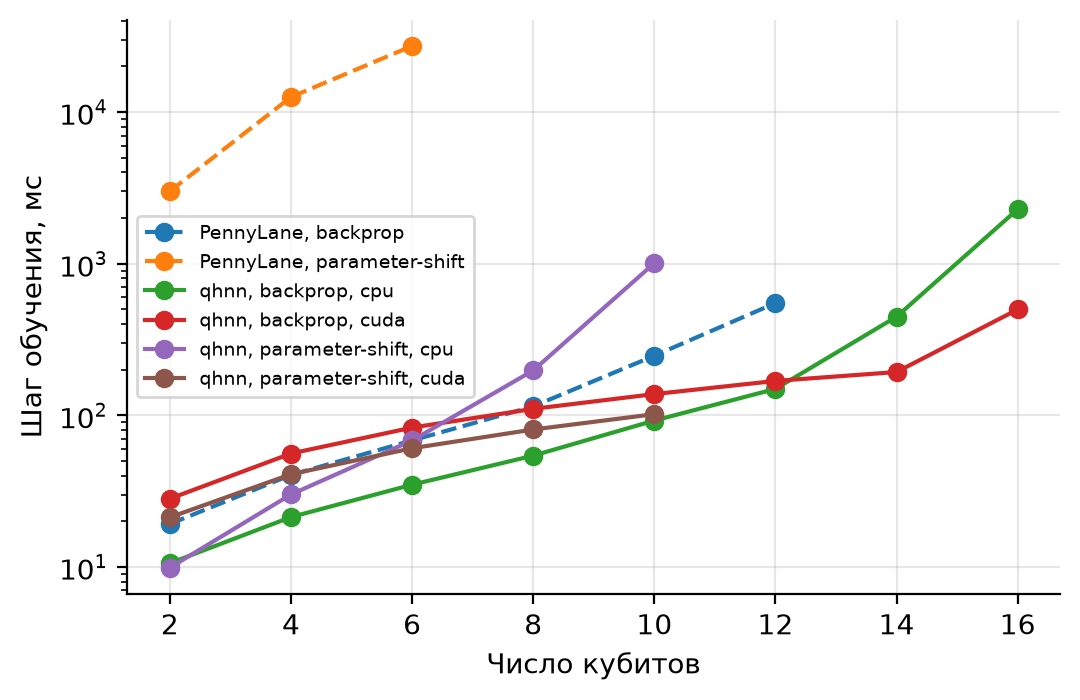
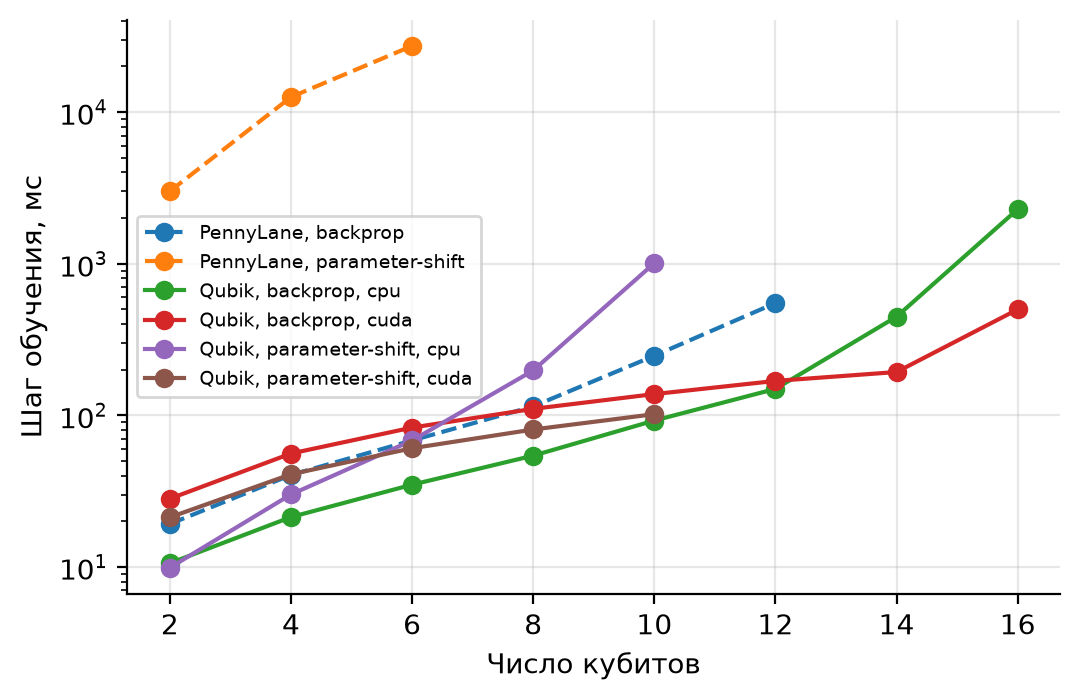
Переименование: qhnn -> Qubik (пакет, скрипты, README, сайт)

Changed region(s): [[0.1833, 0.3, 0.4583, 0.57]]

diff --git a/site/app.js b/site/app.js
@@ -1,4 +1,4 @@
-/* qhnn — сайт с результатами. Данные: data/*.json (qhnn.experiments.export_site). */
+/* Qubik — сайт с результатами. Данные: data/*.json (qubik.experiments.export_site). */
 "use strict";
 
 const MODELS = ["hybrid", "quantum", "classical", "classical_matched", "bottleneck"];
@@ -537,7 +537,7 @@ function renderSpeed() {
   if (!d) { placeholder("ch-speed", "Замер запускается последним, на свободном сервере — результаты появятся после завершения всех экспериментов"); return; }
   const qs = uniq(d.map((r) => r.n_qubits)).sort((a, b) => a - b);
   const keys = uniq(d.map((r) => `${r.backend}|${r.diff_method}|${r.device}`));
-  const name = (k) => { const [b, m, dev] = k.split("|"); return `${b === "torch" ? "qhnn" : "PennyLane"}, ${m}${b === "torch" ? ", " + dev.toUpperCase() : ""}`; };
+  const name = (k) => { const [b, m, dev] = k.split("|"); return `${b === "torch" ? "Qubik" : "PennyLane"}, ${m}${b === "torch" ? ", " + dev.toUpperCase() : ""}`; };
   const c = chart("ch-speed");
   if (c) c.setOption(base({
     tooltip: { ...base().tooltip, trigger: "axis", formatter: (ps) => `<b>${ps[0].axisValue} кубитов</b><br>` +

diff --git a/qubik/experiments/analyze.py b/qubik/experiments/analyze.py
@@ -1,6 +1,6 @@
 """Анализ результатов: сводные таблицы, статистические тесты и графики.
 
-    python -m qhnn.experiments.analyze
+    python -m qubik.experiments.analyze
 
 Читает results/*.csv, пишет таблицы в results/tables и рисунки в
 results/figures. Каждый раздел строится, только если есть его данные.
@@ -17,7 +17,7 @@ import numpy as np
 import pandas as pd
 from scipy.stats import wilcoxon
 
-from qhnn.experiments.runner import ROOT
+from qubik.experiments.runner import ROOT
 
 RES = ROOT / "results"
 FIG = RES / "figures"
@@ -307,7 +307,7 @@ def speed():
     _table(df, "speed")
     fig, ax = plt.subplots(figsize=(5.5, 3.6))
     for (b, m, d), r in df.groupby(["backend", "diff_method", "device"]):
-        name = ("qhnn" if b == "torch" else "PennyLane") + f", {m}" + (f", {d}" if b == "torch" else "")
+        name = ("Qubik" if b == "torch" else "PennyLane") + f", {m}" + (f", {d}" if b == "torch" else "")
         ls = "-" if b == "torch" else "--"
         ax.plot(r.n_qubits, r.step_time * 1000, ls, marker="o", label=name)
     ax.set_yscale("log"); ax.set_xlabel("Число кубитов"); ax.set_ylabel("Шаг обучения, мс")

diff --git a/qubik/experiments/runner.py b/qubik/experiments/runner.py
@@ -31,9 +31,9 @@ import pandas as pd
 import torch
 import yaml
 
-from qhnn.data import load_split
-from qhnn.models import build_model, n_params
-from qhnn.training import fit
+from qubik.data import load_split
+from qubik.models import build_model, n_params
+from qubik.training import fit
 
 ROOT = Path(__file__).resolve().parents[2]
 CLASSICAL = {"classical"}  # модели, не зависящие от параметров квантовой схемы
@@ -124,7 +124,7 @@ def estimated_cost(p: dict) -> float:
 def main(argv=None):
     import sys
     sys.stdout.reconfigure(encoding="utf-8")
-    ap = argparse.ArgumentParser(description="Запуск серий экспериментов qhnn")
+    ap = argparse.ArgumentParser(description="Запуск серий экспериментов Qubik")
     ap.add_argument("configs", nargs="+")
     ap.add_argument("--workers", type=int, default=max(1, (os.cpu_count() or 2) - 1))
     ap.add_argument("--device", default="cpu")

diff --git a/qubik/experiments/export_site.py b/qubik/experiments/export_site.py
@@ -1,6 +1,6 @@
 """Экспорт результатов в JSON для сайта (site/data/*.json).
 
-    python -m qhnn.experiments.export_site [--out site/data]
+    python -m qubik.experiments.export_site [--out site/data]
 
 Сайт — статический: страница читает эти файлы и рисует графики. На сервере
 экспорт запускается по расписанию, и сайт показывает прогресс в реальном времени.
@@ -17,8 +17,8 @@ import numpy as np
 import pandas as pd
 import yaml
 
-from qhnn.experiments.analyze import RES, _load, mean_std, paired_tests
-from qhnn.experiments.runner import ROOT, expand
+from qubik.experiments.analyze import RES, _load, mean_std, paired_tests
+from qubik.experiments.runner import ROOT, expand
 
 SERIES = ["tabular", "sweep", "ablation", "shots", "vision", "vision_q12", "init"]
 

diff --git a/tests/test_core.py b/tests/test_core.py
@@ -6,9 +6,9 @@ import math
 import pytest
 import torch
 
-from qhnn import QuantumLayer, build_circuit, build_model, n_params, to_qasm
-from qhnn import simulator as sim
-from qhnn.backends import PennyLaneBackend, TorchBackend
+from qubik import QuantumLayer, build_circuit, build_model, n_params, to_qasm
+from qubik import simulator as sim
+from qubik.backends import PennyLaneBackend, TorchBackend
 
 torch.manual_seed(0)
 CONFIGS = list(itertools.product([1, 2, 3, 5], [1, 3], ["angle", "angle_x", "dense"],
@@ -65,7 +65,7 @@ def test_known_states():
 
 def test_bell_state_zz():
     # H + CNOT: <Z0 Z1> = 1, <Z0> = 0
-    from qhnn.circuits import Circuit
+    from qubik.circuits import Circuit
     c = Circuit(n_qubits=2, n_inputs=1)
     c.add("H", [0]); c.add("CNOT", [0, 1])
     angles = torch.zeros(1, 0)

diff --git a/qubik/backends.py b/qubik/backends.py
@@ -3,7 +3,7 @@
 Все бэкенды имеют одинаковый интерфейс: `backend(angles) -> <Z_k>` с формой
 (B, n_qubits), где angles — углы вентилей формы (B, G).
 
-- TorchBackend      — собственный симулятор (qhnn.simulator);
+- TorchBackend      — собственный симулятор (qubik.simulator);
                       градиенты: backprop или parameter-shift.
 - PennyLaneBackend  — эталон PennyLane default.qubit, для проверки
                       корректности и сравнения скорости.

diff --git a/qubik/data.py b/qubik/data.py
@@ -2,7 +2,7 @@
 
 Табличные наборы: iris, wine, breast_cancer, moons, circles.
 Признаки изображений: vision:<name> — заранее извлечённые признаки
-(см. qhnn/features.py), хранятся в results/features/<name>.npz.
+(см. qubik/features.py), хранятся в results/features/<name>.npz.
 
 Разбиение: стратифицированное train/val/test = 60/20/20 (для табличных),
 seed управляет и разбиением, и инициализацией модели. Масштабирование и

diff --git a/qubik/__init__.py b/qubik/__init__.py
@@ -1,4 +1,4 @@
-"""qhnn — библиотека для построения, обучения и исследования гибридных
+"""Qubik — библиотека для построения, обучения и исследования гибридных
 квантово-классических нейронных сетей на PyTorch."""
 from .circuits import Circuit, Gate, build_circuit, to_qasm
 from .layers import QuantumLayer

diff --git a/qubik/features.py b/qubik/features.py
@@ -7,7 +7,7 @@ neural networks»): замороженная ResNet18, обученная на I
 
 Признаки считаются один раз и сохраняются в results/features/<name>.npz.
 
-    python -m qhnn.features mnist fashion pneumonia --device cuda
+    python -m qubik.features mnist fashion pneumonia --device cuda
 """
 from __future__ import annotations
 

diff --git a/scripts/remaining.py b/scripts/remaining.py
@@ -2,7 +2,7 @@
 import glob, os, sys
 import yaml
 sys.stdout.reconfigure(encoding="utf-8")
-from qhnn.experiments.runner import ROOT, expand, load_results
+from qubik.experiments.runner import ROOT, expand, load_results
 
 res = ROOT / "results"
 locks = {p.name for p in (res / "locks").glob("*")} if (res / "locks").exists() else set()

diff --git a/qubik/experiments/barren.py b/qubik/experiments/barren.py
@@ -27,9 +27,9 @@ from pathlib import Path
 import pandas as pd
 import torch
 
-from qhnn import build_circuit
-from qhnn import simulator as sim
-from qhnn.experiments.runner import ROOT
+from qubik import build_circuit
+from qubik import simulator as sim
+from qubik.experiments.runner import ROOT
 
 
 def costs(c, angles):
